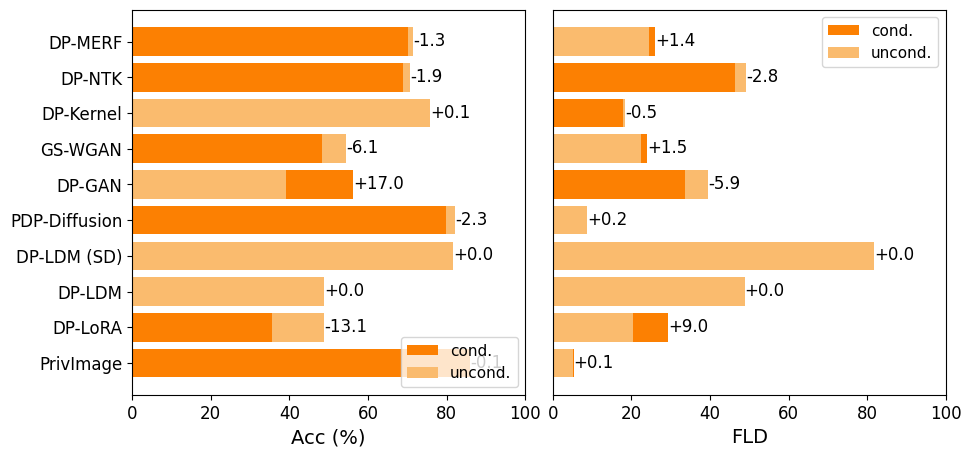
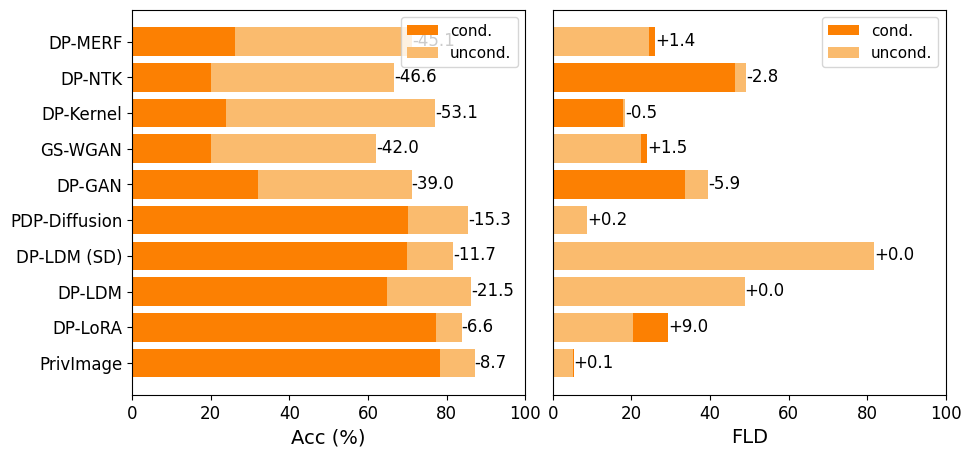
doc: edit dpldm and dplora

Changed region(s): [[0.1236, 0.0306, 0.5252, 0.8271], [0.4325, 0.2144, 0.4943, 0.2757]]

diff --git a/models/dpsgd_ldm_sc.py b/models/dpsgd_ldm_sc.py
@@ -155,7 +155,7 @@ class DP_LDM(DPSynther):
         self.config.train.pretrain_model = os.path.join(logdir, 'checkpoints', 'last.ckpt')
 
     def train(self, sensitive_dataloader, config):
-        if sensitive_dataloader is None:
+        if sensitive_dataloader is None or config.n_epochs == 0:
             return
         
         if self.global_rank == 0:
@@ -203,6 +203,7 @@ class DP_LDM(DPSynther):
         logging.info("start to generate {} samples".format(config.data_num))
         if self.global_rank == 0 and not os.path.exists(config.log_dir):
             make_dir(config.log_dir)
+        # self.config.train.log_dir = '/p/fzv6enresearch/DPImageBench/exp/dp-ldm/celeba_male_64_eps10.0val-2025-01-29-02-43-05/train/'
         
         scripts = [[
             'models/DP_LDM/cond_sampling_test.py', 

diff --git a/plot/plot_wo_pretrain_cond_fmnist.py b/plot/plot_wo_pretrain_cond_fmnist.py
@@ -93,7 +93,7 @@ fig.clf()
 axs = fig.subplots(1, 2)
 
 accs_condi = np.array([26.1, 20.0, 24.0, 20.1, 32.1, 70.1, 69.9, 64.8, 77.2, 78.4])
-accs_uncondi = np.array([29.0, 19.8, 32.2, 18.5, 39.2, 82.1, 81.7, 48.8, 48.8, 86.0])
+accs_uncondi = np.array([71.2, 66.6, 77.1, 62.1, 71.1, 85.4, 81.6, 86.3, 83.8, 87.1])
 
 flds_condi = np.array([26.0, 46.4, 18.0, 24.0, 33.6, 8.8, 81.7, 48.8, 29.4, 5.3])
 flds_uncondi = np.array([24.6, 49.2, 18.5, 22.5, 39.5, 8.6, 81.7, 48.8, 20.4, 5.2])

diff --git a/plot/plot_wo_pretrain_cond_cifar10.py b/plot/plot_wo_pretrain_cond_cifar10.py
@@ -92,7 +92,7 @@ fig.savefig("wo_pretrain.pdf", bbox_inches='tight')
 fig.clf()
 axs = fig.subplots(1, 2)
 
-accs_condi = np.array([22.3, 20, 24.2, 18.5, 19.2, 29.5, 19.2, 29.5, 19.4, 66.7])
+accs_condi = np.array([26.1, 20.0, 24.0, 18.5, 35.2, 70.1, 69.9, 64.8, 77.2, 78.4])
 accs_uncondi = np.array([24.8, 21.1, 29.9, 21.9, 23.0, 27.4, 19.2, 29.5, 21.3, 22.3])
 
 flds_condi = np.array([31.5, 41.2, 30.4, 31.0, 22.8, 14.7, 19.2, 29.5, 16.0, 7.3])

diff --git a/README.md b/README.md
@@ -393,7 +393,7 @@ python run.py setup.n_gpus_per_node=3 public_data.name=null eval.mode=val \
  --method PDP-Diffusion --data_name fmnist_28 --epsilon 10.0 --exp_description <any-notes>
 ```
 
-Currently, only diffuisn-based methods are supported, because we fint that GAN-based methods usually do not benefit from pretraining and their training is fast.
+Currently, only diffuisn-based methods are supported, because GAN-based methods usually do not benefit from pretraining and their training is fast.
 
 
 ### 4.4 Results
